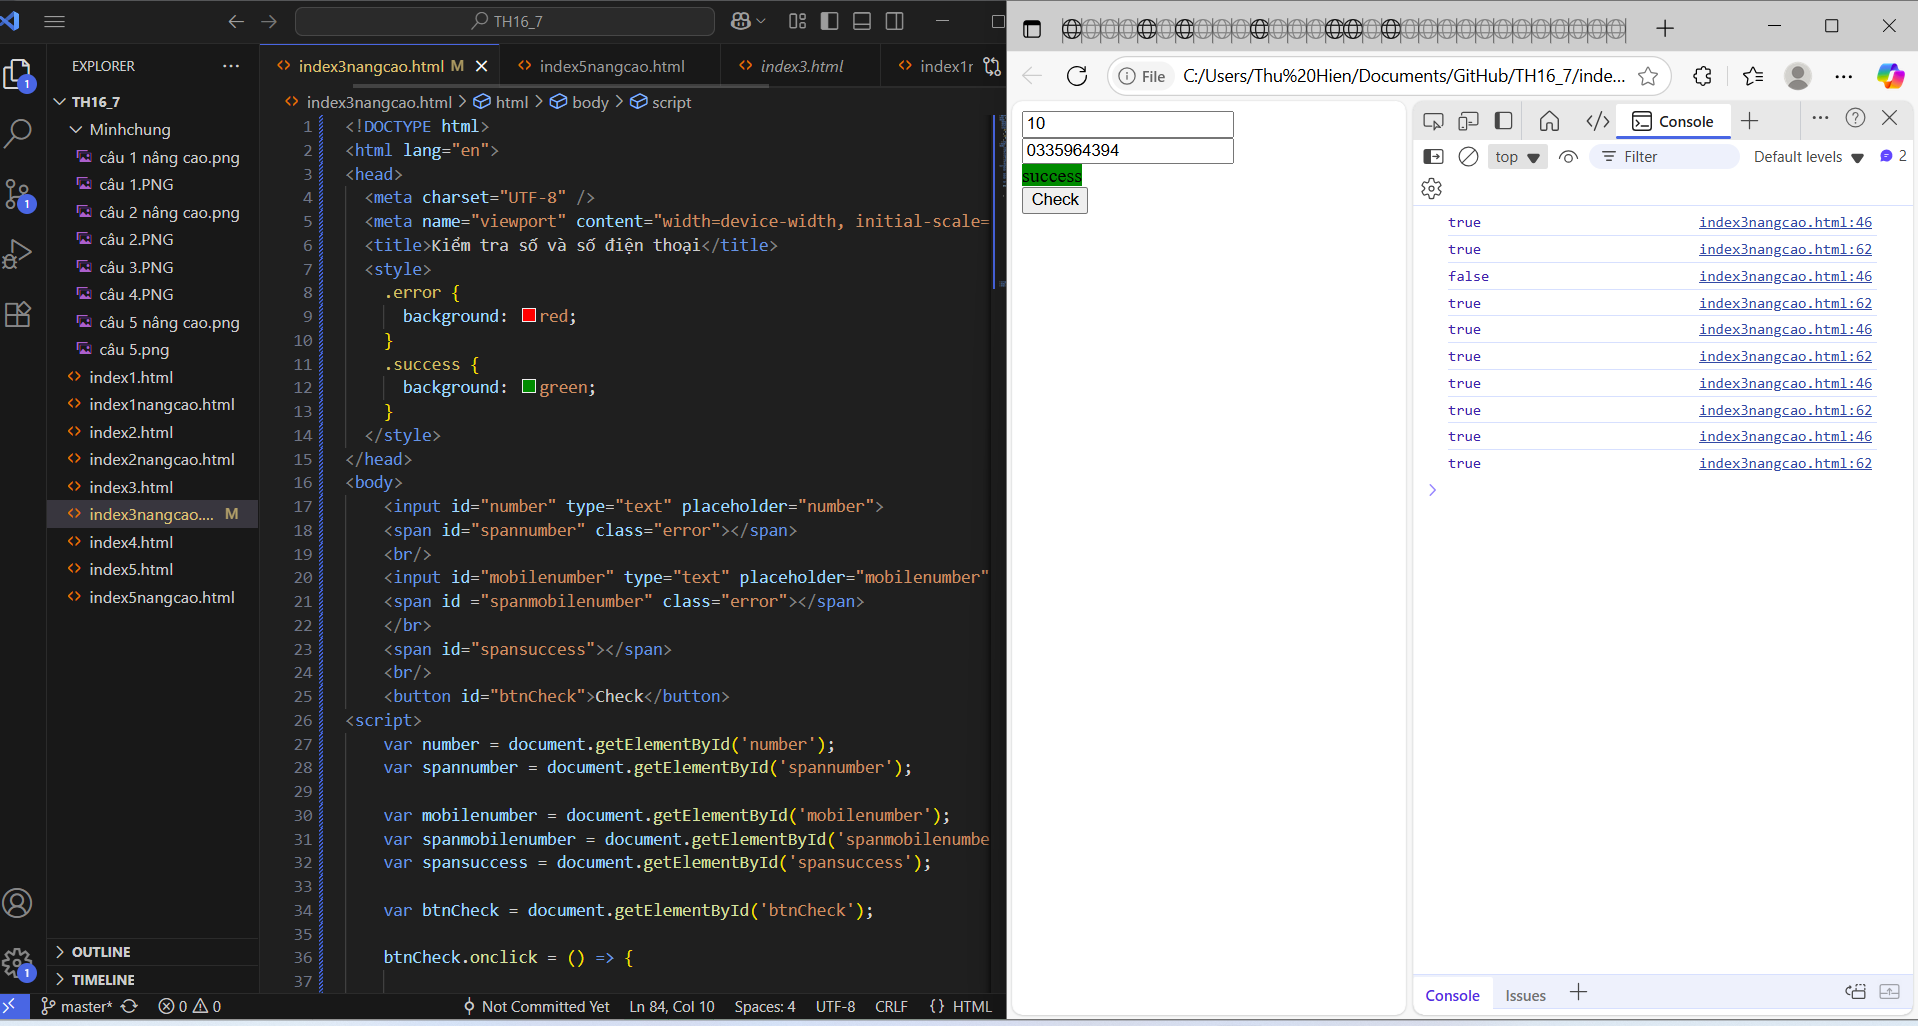
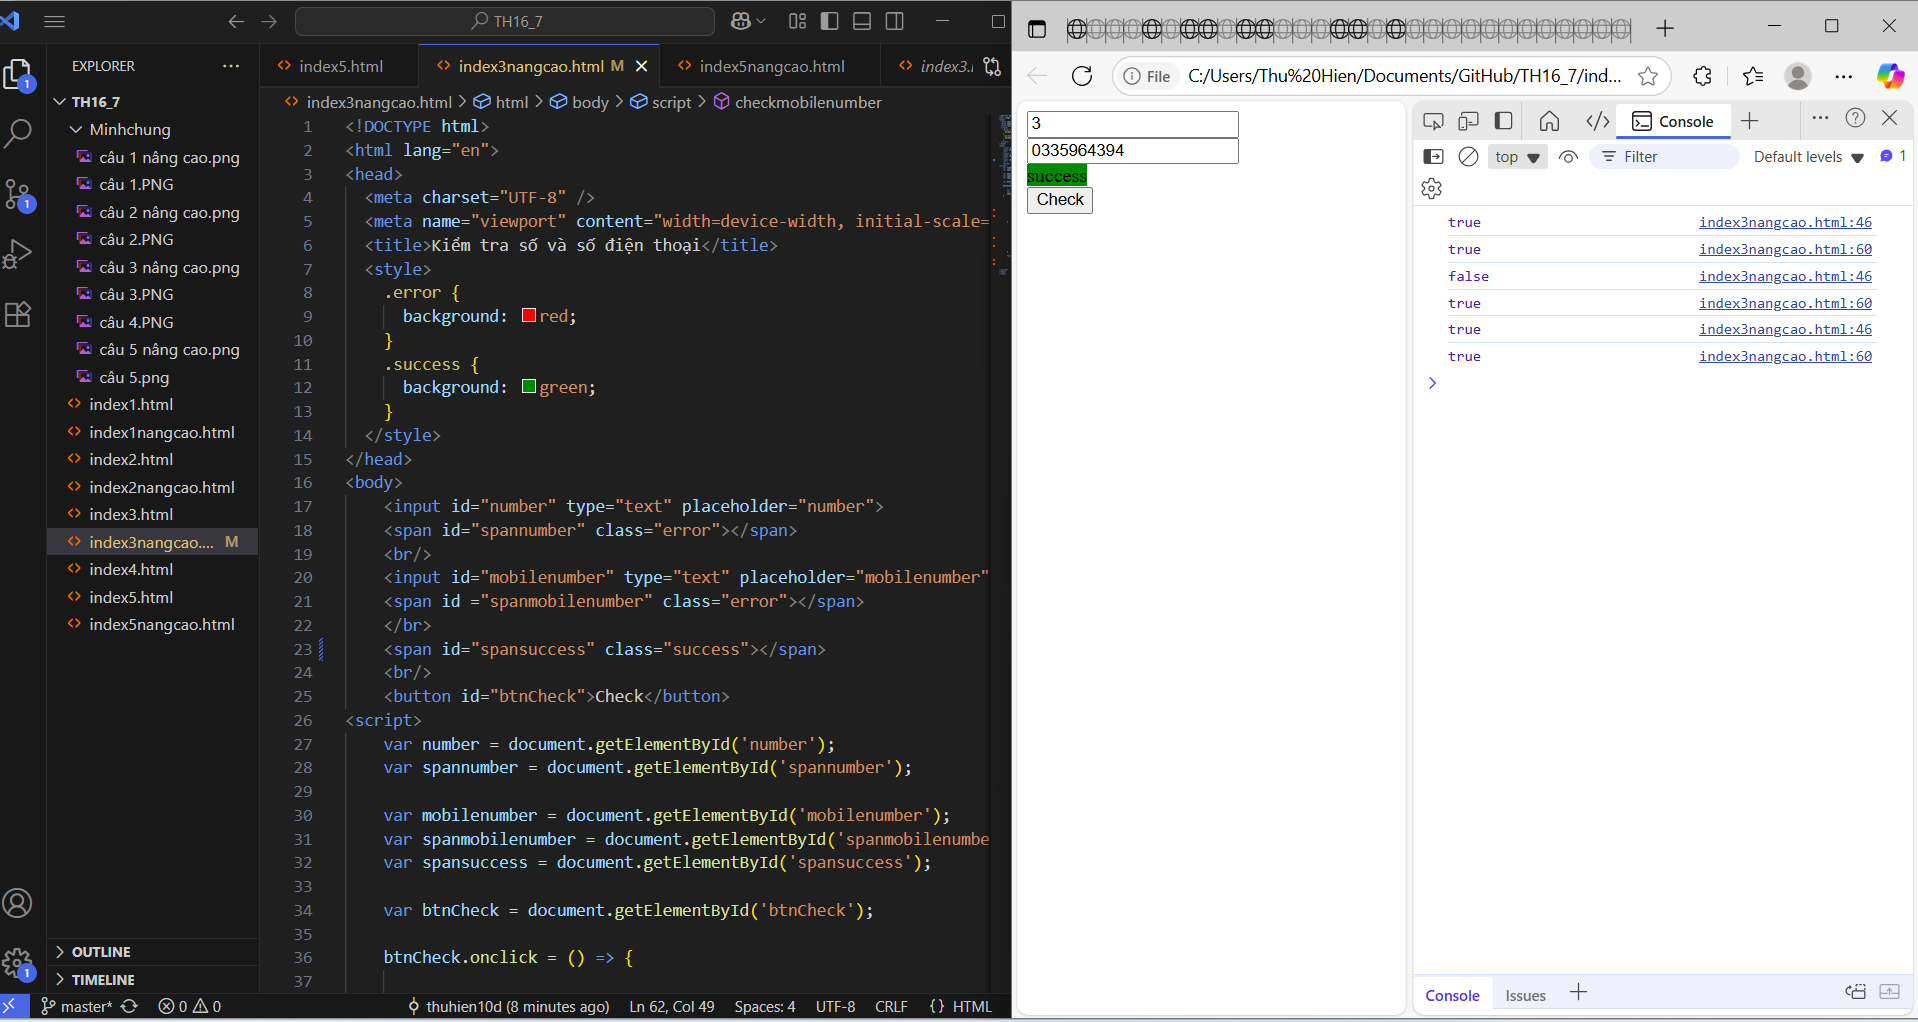
add file index3nangcao.html + Minhchung3nc

diff --git a/index3nangcao.html b/index3nangcao.html
@@ -20,7 +20,7 @@
     <input id="mobilenumber" type="text" placeholder="mobilenumber">
     <span id ="spanmobilenumber" class="error"></span>
     </br>
-    <span id="spansuccess"></span>
+    <span id="spansuccess" class="success"></span>
     <br/>
     <button id="btnCheck">Check</button>
 <script>
@@ -46,11 +46,9 @@
             console.log(logic);
             if (logic) {
                 spannumber.innerText = '';
-                spannumber.className = '';
             }
             else {
                 spannumber.innerText = 'Please check input';
-                spannumber.className = 'error';
             }
             return logic;
         }
@@ -62,12 +60,10 @@
             console.log(logic);
             if (logic) {
                 spanmobilenumber.innerText = '';
-                spanmobilenumber.className = '';
 
             }
             else {
                 spanmobilenumber.innerText = 'Please check input'
-                spanmobilenumber.className = 'error'
             }
             return logic;
         }
@@ -75,10 +71,8 @@
         function checkAll (isNumber, isPhone) {
             if (isNumber && isPhone) {
                 spansuccess.innerText = 'success';
-                spansuccess.className = 'success'
             } else {
                 spansuccess.innerText = '';
-                spansuccess.className = '';
             }
             }
 </script>
